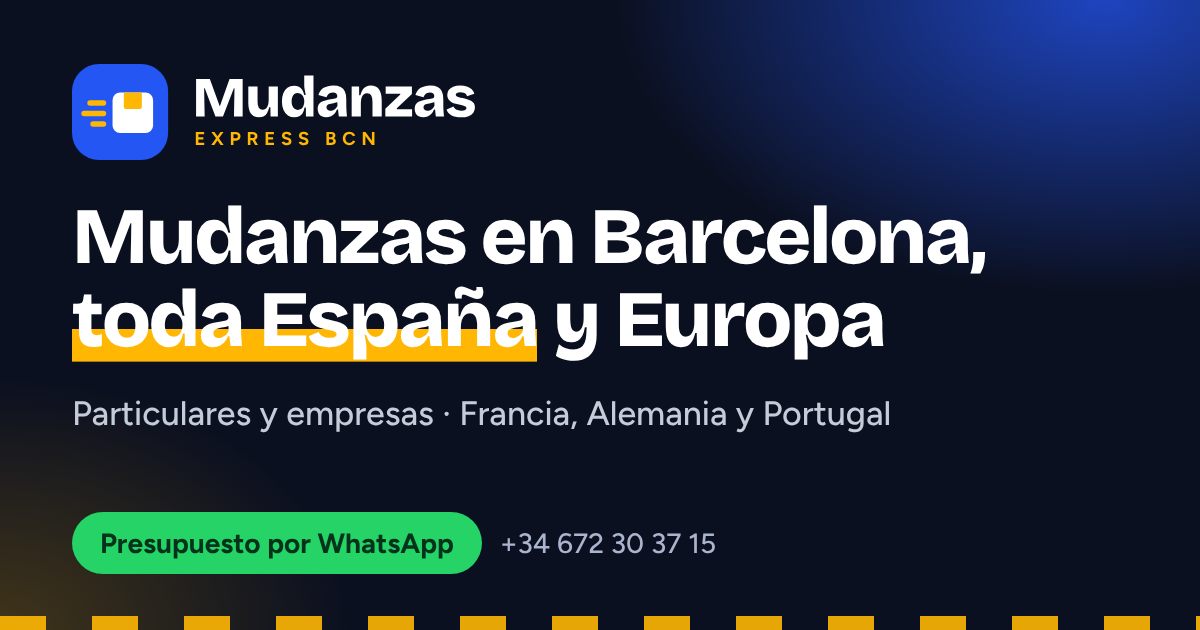
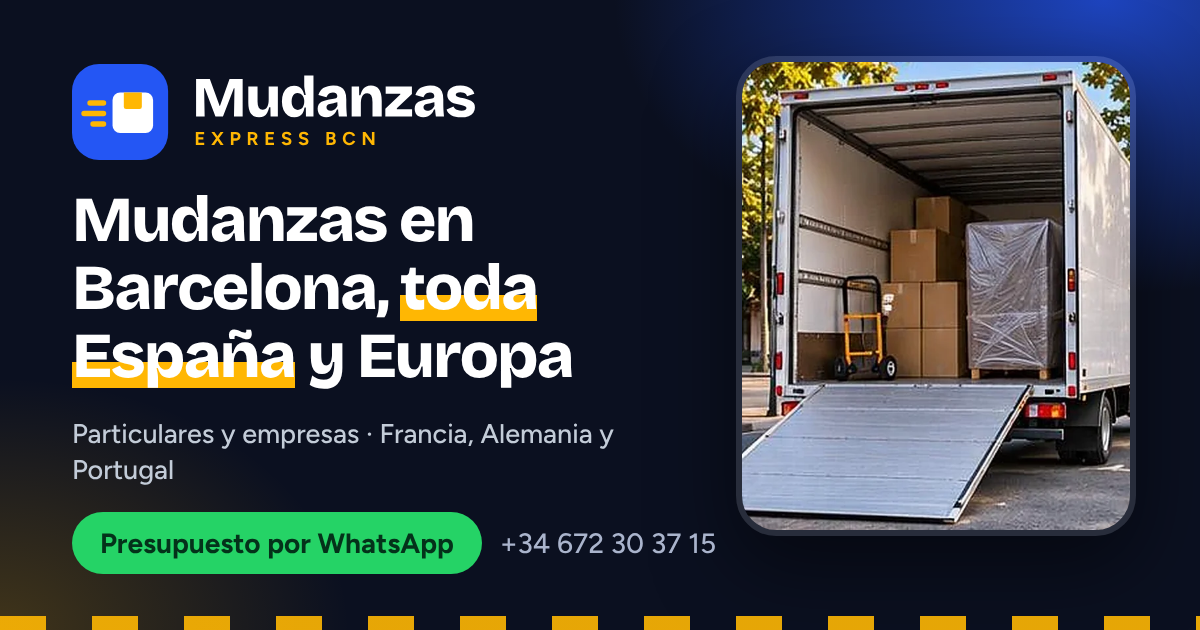
Add files via upload

diff --git a/_sass/components.scss b/_sass/components.scss
@@ -21,11 +21,11 @@
 .mini{width:20px;height:20px;flex:none;color:var(--brand)}
 
 /* ---- Tarjetas y rejilla bento (con foco de luz que sigue al cursor) ---- */
-.card{position:relative;overflow:hidden;background:var(--surface);border-radius:var(--r-lg);padding:30px;transition:transform .3s cubic-bezier(.2,.7,.2,1),box-shadow .3s}
+.card{--card-bg:var(--surface);position:relative;overflow:hidden;background:var(--card-bg);border-radius:var(--r-lg);padding:30px;transition:transform .3s cubic-bezier(.2,.7,.2,1),box-shadow .3s}
 .card::before{content:"";position:absolute;inset:0;background:radial-gradient(360px circle at var(--mx,50%) var(--my,0%),rgba(36,86,244,.16),transparent 60%);opacity:0;transition:opacity .3s;pointer-events:none}
 .card:hover::before{opacity:1}
 .card>*{position:relative}
-.section.alt .card{background:var(--bg)}
+.section.alt .card{--card-bg:var(--bg)}
 .card:hover{transform:translateY(-5px);box-shadow:var(--shadow)}
 .card p{color:var(--muted);margin:0}
 .card-ico{width:54px;height:54px;padding:13px;border-radius:16px;background:var(--bg);color:var(--brand);box-shadow:0 1px 0 var(--line);margin-bottom:22px;display:block;transition:transform .35s cubic-bezier(.3,1.6,.5,1),background .3s,color .3s}
@@ -37,14 +37,11 @@
 .bento{display:grid;gap:16px;grid-template-columns:1fr}
 .bento .card{display:flex;flex-direction:column}
 .bento .card .link{margin-top:auto;padding-top:16px}
-.bento .is-dark{background:var(--panel)}
+.bento .is-dark{--card-bg:var(--panel)}
 .bento .is-dark h3,.bento .is-dark .card-title{color:#fff}
 .bento .is-dark p{color:var(--on-panel-muted)}
-.bento .is-dark .card-ico{background:rgba(255,255,255,.1);box-shadow:none;color:var(--amber)}
-.bento .is-dark:hover .card-ico{background:var(--amber);color:#0b1020}
 .bento .is-dark .link{color:var(--amber)}
-.bento .is-accent{background:var(--amber-soft)}
-.bento .is-accent .card-ico{background:var(--amber);color:#0b1020}
+.bento .is-accent{--card-bg:var(--amber-soft)}
 .card-title{font-size:1.25rem;margin:0 0 .5em}
 @media (min-width:600px){
   .bento{grid-template-columns:1fr 1fr}
@@ -81,9 +78,8 @@
 }
 
 /* ---- Fotos y galeria (zoom suave al pasar el raton) ---- */
-figure{overflow:hidden;border-radius:var(--r-lg)}
-figure img{border-radius:0;width:100%;aspect-ratio:4/3;object-fit:cover;background:var(--surface);transition:transform .8s cubic-bezier(.2,.7,.2,1)}
-figure:hover img{transform:scale(1.06)}
+figure img{border-radius:var(--r-lg);width:100%;aspect-ratio:4/3;object-fit:cover;background:var(--surface);transition:transform .5s cubic-bezier(.2,.7,.2,1),box-shadow .5s}
+figure:hover img{transform:translateY(-5px);box-shadow:var(--shadow)}
 figcaption{font-size:.92rem;color:var(--muted);padding:12px 4px 0;font-weight:600}
 .gallery{display:grid;gap:18px;grid-template-columns:1fr}
 @media (min-width:600px){
@@ -159,3 +155,45 @@ figcaption{font-size:.92rem;color:var(--muted);padding:12px 4px 0;font-weight:60
 .ticker-set span{white-space:nowrap;font-family:var(--font-display);font-weight:700;font-size:1.35rem;letter-spacing:-.02em;padding:0 22px}
 .ticker-set i{font-style:normal;color:var(--amber);font-size:1.1rem}
 .ticker-set .alt{color:var(--amber)}
+
+/* ---- Tarjetas de servicio con foto ---- */
+.card.has-photo{padding:0;display:flex;flex-direction:column}
+.card-photo{position:relative}
+.card-photo-img{overflow:hidden;aspect-ratio:16/9;border-radius:var(--r-lg) var(--r-lg) 0 0}
+.card-photo-img img{width:100%;height:100%;object-fit:cover;transition:transform .9s cubic-bezier(.2,.7,.2,1)}
+.card:hover .card-photo-img img{transform:scale(1.08)}
+.card-photo .card-ico{position:absolute;left:24px;bottom:-30px;width:60px;height:60px;padding:14px;margin:0;border:5px solid var(--card-bg);background:var(--bg);box-shadow:none}
+.bento .is-dark .card-photo .card-ico,.bento .is-accent .card-photo .card-ico{background:var(--amber);color:#0b1020}
+.card-body{display:flex;flex:1;flex-direction:column;padding:44px 28px 30px}
+@media (min-width:600px){
+  .bento .span-2 .card-photo-img{aspect-ratio:21/9}
+}
+
+/* ---- Panoramica de la flota ---- */
+.pano{position:relative;overflow:hidden;border-radius:var(--r-lg);box-shadow:var(--shadow)}
+.pano img{width:100%;height:auto;min-height:210px;aspect-ratio:1594/460;object-fit:cover;border-radius:0;box-shadow:none;transition:transform 1.2s cubic-bezier(.2,.7,.2,1)}
+.pano:hover img{transform:scale(1.04)}
+.pano-chip{position:absolute;left:16px;bottom:16px;display:flex;align-items:center;gap:10px;margin:0;padding:10px 16px;border-radius:16px;background:var(--glass);-webkit-backdrop-filter:blur(12px);backdrop-filter:blur(12px);box-shadow:0 10px 28px rgba(11,16,32,.2);font-size:.82rem;line-height:1.3;font-weight:500;color:var(--text)}
+.pano-chip strong{display:block;font-size:.92rem;color:var(--heading)}
+.pano-chip .mini{width:24px;height:24px}
+
+/* ---- Foto de Barcelona en el esquema de rutas ---- */
+.route{overflow:hidden}
+.route-photo{margin:-26px -26px 20px}
+.route-photo img{width:100%;aspect-ratio:21/9;object-fit:cover}
+@media (max-width:480px){
+  .route-photo{margin:-18px -18px 16px}
+}
+
+/* ---- Fotos ampliables ---- */
+figure[data-lightbox]{cursor:zoom-in}
+.lightbox{border:0;padding:0;background:transparent;max-width:min(1100px,94vw);max-height:92vh;overflow:visible;color:#fff}
+.lightbox[open]{animation:zoom-in .35s cubic-bezier(.2,.7,.2,1) both}
+.lightbox::backdrop{background:rgba(5,8,18,.84);-webkit-backdrop-filter:blur(6px);backdrop-filter:blur(6px)}
+.lightbox img{display:block;max-width:100%;max-height:78vh;margin:0 auto;border-radius:18px;box-shadow:0 30px 80px rgba(0,0,0,.5)}
+.lightbox p{margin:14px 0 0;text-align:center;font-weight:600}
+.lb-btn{position:fixed;top:50%;display:grid;place-items:center;width:48px;height:48px;margin-top:-24px;border:0;border-radius:50%;background:rgba(255,255,255,.16);color:#fff;font-size:1.8rem;line-height:1;cursor:pointer;transition:background .2s}
+.lb-btn:hover{background:rgba(255,255,255,.3)}
+.lb-prev{left:14px}
+.lb-next{right:14px}
+.lb-close{top:22px;right:14px;margin-top:0;font-size:1.5rem}

diff --git a/assets/js/app.js b/assets/js/app.js
@@ -45,7 +45,7 @@
 
 /* ---------- Aparicion al hacer scroll ---------- */
 (function () {
-  var SELECTOR = ".sec-head, .bento .card, .grid-3 > .card, .steps li, .route, .gallery figure, .faq, .cta-panel, " +
+  var SELECTOR = ".sec-head, .bento .card, .grid-3 > .card, .steps li, .route, .pano, .gallery figure, .faq, .cta-panel, " +
     ".split > *, .strip-grid > div, .wa-card, .form, .checks.two";
   var items = [].slice.call(document.querySelectorAll(SELECTOR));
   var reduce = window.matchMedia("(prefers-reduced-motion: reduce)").matches;
@@ -66,6 +66,59 @@
     });
   }, { rootMargin: "0px 0px -8% 0px", threshold: 0.08 });
   items.forEach(function (el) { io.observe(el); });
+})();
+
+/* ---------- Fotos ampliables (figure[data-lightbox]) ---------- */
+(function () {
+  var figs = [].slice.call(document.querySelectorAll("figure[data-lightbox]"));
+  if (!figs.length || typeof HTMLDialogElement === "undefined") return;
+
+  var dlg = document.createElement("dialog");
+  dlg.className = "lightbox";
+  dlg.setAttribute("aria-label", "Foto ampliada");
+  var img = document.createElement("img");
+  var cap = document.createElement("p");
+  function button(cls, label, text) {
+    var b = document.createElement("button");
+    b.type = "button"; b.className = "lb-btn " + cls; b.setAttribute("aria-label", label); b.textContent = text;
+    return b;
+  }
+  var prev = button("lb-prev", "Foto anterior", "\u2039");
+  var next = button("lb-next", "Foto siguiente", "\u203A");
+  var close = button("lb-close", "Cerrar", "\u00D7");
+  [img, cap, prev, next, close].forEach(function (el) { dlg.appendChild(el); });
+  document.body.appendChild(dlg);
+
+  var index = 0;
+  function show(i) {
+    index = (i + figs.length) % figs.length;
+    var src = figs[index].querySelector("img");
+    var text = figs[index].querySelector("figcaption");
+    img.src = src.currentSrc || src.src;
+    img.alt = src.alt;
+    cap.textContent = text ? text.textContent : src.alt;
+    var many = figs.length > 1;
+    prev.hidden = next.hidden = !many;
+  }
+  function open(i) { show(i); if (!dlg.open) dlg.showModal(); }
+
+  figs.forEach(function (fig, i) {
+    fig.setAttribute("tabindex", "0");
+    fig.setAttribute("role", "button");
+    fig.setAttribute("aria-label", "Ampliar foto");
+    fig.addEventListener("click", function () { open(i); });
+    fig.addEventListener("keydown", function (e) {
+      if (e.key === "Enter" || e.key === " ") { e.preventDefault(); open(i); }
+    });
+  });
+  prev.addEventListener("click", function () { show(index - 1); });
+  next.addEventListener("click", function () { show(index + 1); });
+  close.addEventListener("click", function () { dlg.close(); });
+  dlg.addEventListener("click", function (e) { if (e.target === dlg) dlg.close(); });
+  dlg.addEventListener("keydown", function (e) {
+    if (e.key === "ArrowLeft") show(index - 1);
+    if (e.key === "ArrowRight") show(index + 1);
+  });
 })();
 
 /* ---------- Año del copyright ---------- */

diff --git a/index.html b/index.html
@@ -21,8 +21,8 @@ description: "Mudanzas de pisos, casas, oficinas y empresas en toda España, con
       </ul>
     </div>
     <div class="hero-media">
-      <img class="hero-main" src="{{ '/assets/img/flota/furgoneta-frontal.jpg' | relative_url }}" alt="Furgoneta de gran volumen de la empresa" width="1080" height="810">
-      <img class="hero-sub" src="{{ '/assets/img/flota/furgoneta-interior.jpg' | relative_url }}" alt="Interior de carga de la furgoneta" width="1080" height="810" loading="lazy">
+      <img class="hero-main" src="{{ '/assets/img/flota/camion-rampa.webp' | relative_url }}" alt="Camión de mudanzas abierto, con cajas y un mueble protegido, y la rampa bajada" width="864" height="712">
+      <img class="hero-sub" src="{{ '/assets/img/flota/embalaje.webp' | relative_url }}" alt="Plástico de burbujas, film, mantas y cinta para proteger los muebles" width="736" height="464" loading="lazy">
       <div class="hero-chip">{% include icon.html name="globe" class="mini" %}<span><strong>Mudanzas internacionales</strong>Francia · Alemania · Portugal</span></div>
     </div>
   </div>
@@ -91,12 +91,8 @@ description: "Mudanzas de pisos, casas, oficinas y empresas en toda España, con
       <h2>Vehículos y equipo a tu servicio</h2>
       <p>Disponemos de camiones y de personal para distintos tipos de mudanzas.</p>
     </div>
-    <div class="gallery gallery--2">
-      {%- for photo in site.data.fleet offset: 1 %}
-      {% include figure.html src=photo.image alt=photo.alt %}
-      {%- endfor %}
-    </div>
-    <p class="center mt"><a class="btn btn-outline" href="{{ '/flota/' | relative_url }}">Ver la flota</a></p>
+    {% include pano.html %}
+    <p class="center mt"><a class="btn btn-dark" href="{{ '/flota/' | relative_url }}">Ver la flota</a></p>
   </div>
 </section>
 

diff --git a/_includes/service-cards.html b/_includes/service-cards.html
@@ -1,13 +1,15 @@
 {%- comment -%}
-  Rejilla bento de servicios (_data/services.yml).
+  Rejilla bento de servicios (_data/services.yml), cada tarjeta con su foto.
   Uso: {% include service-cards.html %}  (portada, textos cortos)
        {% include service-cards.html full=true %}  (pagina de servicios, textos largos y boton)
 {%- endcomment -%}
 <div class="bento">
   {%- for s in site.data.services %}
-  <article class="card{% if forloop.first %} is-dark span-2{% elsif forloop.last %} is-accent span-2{% endif %}">
-    {% include icon.html name=s.icon class="card-ico" %}
-    {% if include.full %}<h2 class="card-title">{{ s.page_title }}</h2><p>{{ s.long }}</p>{% include wa-button.html class="link" label="Pedir presupuesto →" %}{% else %}<h3>{{ s.title }}</h3><p>{{ s.short }}</p>{% endif %}
+  <article class="card has-photo{% if forloop.first %} is-dark span-2{% elsif forloop.last %} is-accent span-2{% endif %}">
+    <div class="card-photo"><div class="card-photo-img"><img src="{{ '/assets/img/' | append: s.image | relative_url }}" alt="{{ s.image_alt }}" loading="lazy" width="800" height="450"></div>{% include icon.html name=s.icon class="card-ico" %}</div>
+    <div class="card-body">
+      {% if include.full %}<h2 class="card-title">{{ s.page_title }}</h2><p>{{ s.long }}</p>{% include wa-button.html class="link" label="Pedir presupuesto →" %}{% else %}<h3>{{ s.title }}</h3><p>{{ s.short }}</p>{% endif %}
+    </div>
   </article>
   {%- endfor %}
 </div>

diff --git a/_includes/figure.html b/_includes/figure.html
@@ -1,2 +1,2 @@
 {%- comment -%} Uso: {% include figure.html src="flota/x.jpg" alt="..." caption="..." %} {%- endcomment -%}
-<figure><img src="{{ '/assets/img/' | append: include.src | relative_url }}" alt="{{ include.alt }}" loading="lazy" width="1080" height="810">{% if include.caption %}<figcaption>{{ include.caption }}</figcaption>{% endif %}</figure>
+<figure data-lightbox><img src="{{ '/assets/img/' | append: include.src | relative_url }}" alt="{{ include.alt }}" loading="lazy" width="800" height="600">{% if include.caption %}<figcaption>{{ include.caption }}</figcaption>{% endif %}</figure>

diff --git a/_includes/route-map.html b/_includes/route-map.html
@@ -1,4 +1,5 @@
 <div class="route" role="img" aria-label="Desde Barcelona: toda España, Francia, Alemania y Portugal">
+  <div class="route-photo"><img src="{{ '/assets/img/flota/barcelona.webp' | relative_url }}" alt="Vista de Barcelona con la Sagrada Familia" loading="lazy" width="824" height="356"></div>
   <div class="route-hub">{% include icon.html name="map" class="route-ico" %}<strong>Barcelona</strong><span>Nuestra base</span></div>
   <ul class="route-list">
     <li class="route-main"><span class="route-name">España</span><span class="route-tag">Toda España</span></li>

diff --git a/servicios.html b/servicios.html
@@ -19,6 +19,6 @@ description: Mudanzas de viviendas, oficinas y empresas, transporte de muebles y
       <p>Disponemos de camiones y de personal para realizar diferentes tipos de mudanzas.</p>
       <a class="btn btn-outline" href="{{ '/flota/' | relative_url }}">Ver la flota</a>
     </div>
-    <div>{% include figure.html src="flota/furgoneta-interior.jpg" alt="Interior de carga de una furgoneta de mudanzas" %}</div>
+    <div>{% include figure.html src="flota/furgoneta-interior-trasera.webp" alt="Interior de carga de una furgoneta de mudanzas" %}</div>
   </div>
 </section>

diff --git a/empresa.html b/empresa.html
@@ -19,7 +19,7 @@ description: Empresa de mudanzas con base en Barcelona. Camiones y personal para
         <li>Presupuesto rápido por WhatsApp</li>
       </ul>
     </div>
-    <div>{% include figure.html src="flota/furgoneta-frontal.jpg" alt="Furgoneta de la empresa" %}</div>
+    <div>{% include figure.html src="flota/camion-blanco-lateral.webp" alt="Camión blanco con caja cerrada en una calle de Barcelona" %}</div>
   </div>
 </section>
 <section class="section alt">

diff --git a/_includes/pano.html b/_includes/pano.html
@@ -1,0 +1,4 @@
+<figure class="pano" data-lightbox>
+  <img src="{{ '/assets/img/flota/flota-panoramica.webp' | relative_url }}" alt="Furgonetas y camiones de mudanzas aparcados con la Sagrada Familia al fondo" width="1594" height="460" loading="lazy">
+  <figcaption class="pano-chip">{% include icon.html name="map" class="mini" %}<span><strong>Barcelona</strong>Furgonetas y camiones para cada mudanza</span></figcaption>
+</figure>

diff --git a/flota.html b/flota.html
@@ -8,7 +8,8 @@ description: Conoce nuestros camiones y furgonetas para mudanzas desde Barcelona
 ---
 <section class="section">
   <div class="wrap">
-    <div class="gallery">
+    {% include pano.html %}
+    <div class="gallery mt">
       {%- for photo in site.data.fleet %}
       {% include figure.html src=photo.image alt=photo.alt caption=photo.caption %}
       {%- endfor %}

diff --git a/README.md b/README.md
@@ -36,7 +36,7 @@ assets/
   js/app.js            Tema, menú móvil, animaciones al hacer scroll, formularios -> WhatsApp y año
   js/count.js          GoatCounter (estadísticas de visitas, licencia ISC)
   img/brand/           Logotipo (SVG y PNG), favicon, iconos y og-image.png (imagen al compartir)
-  img/flota/           Fotos de camiones y furgonetas
+  img/flota/           Fotos (WebP): flota, servicios, Barcelona. Se asignan en _data/fleet.yml y _data/services.yml
 index.html · servicios.html · mudanzas.html · flota.html · empresa.html · contacto.html
 ```
 
@@ -50,7 +50,7 @@ La cabecera, el pie, el menú y los botones de WhatsApp se escriben **una sola v
 | Firma de copyright (pie) / GoatCounter | `studio` y `goatcounter` en `_data/site.yml` (vacio = sin estadisticas) |
 | Servicios | `_data/services.yml` |
 | Preguntas frecuentes | `_data/faq.yml` |
-| Fotos de la flota | sustituir archivo en `assets/img/flota/` y/o editar `_data/fleet.yml` |
+| Fotos de la flota y de los servicios | sustituir el archivo en `assets/img/flota/` (mismo nombre) o editar `_data/fleet.yml` / `_data/services.yml`; la panorámica es `flota-panoramica.webp` |
 | Textos de una página | el `.html` de esa página |
 | Colores (claro y oscuro) | variables al principio de `_sass/base.scss` (bloque `:root` = claro, `dark-tokens` = oscuro) |
 | Tipografías | `_sass/base.scss`; las fuentes se cargan desde Google Fonts en `_includes/head.html` |
